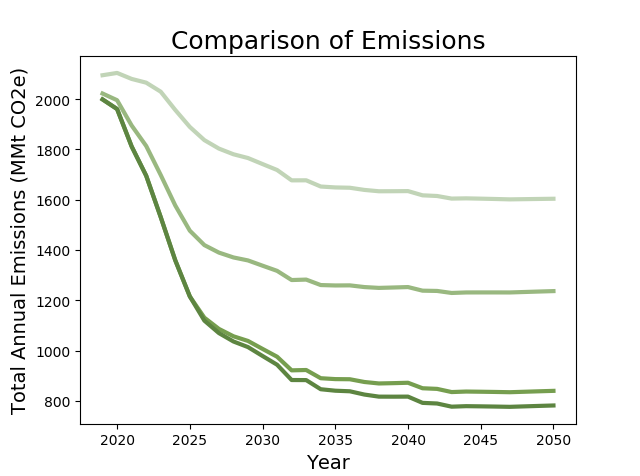
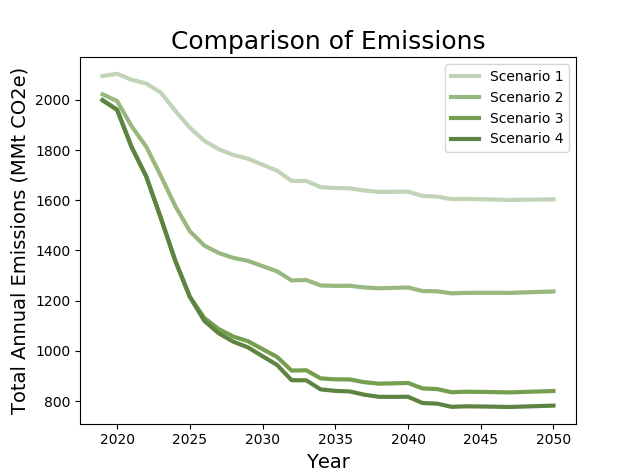
final graphs

diff --git a/proper_graphs.py b/proper_graphs.py
@@ -11,7 +11,7 @@ em3 = pd.read_excel('Graph Data/TEP - Graphs III.xlsx', sheet_name = 'ALL PLOTS'
 eg4 = pd.read_excel('Graph Data/TEP - Graphs III.xlsx', sheet_name = 'ALL PLOTS', skiprows = 359, nrows = 15, usecols = 'H:AM')
 em4 = pd.read_excel('Graph Data/TEP - Graphs III.xlsx', sheet_name = 'ALL PLOTS', skiprows = 379, nrows = 15, usecols = 'H:AM')
 em_total = pd.read_excel('Graph Data/TEP - Graphs III.xlsx', sheet_name = 'ALL PLOTS', skiprows = 408, nrows = 15, usecols = 'H:AM')
-eg_total = pd.read_excel('Graph Data/TEP - Graphs III.xlsx', sheet_name = 'ALL PLOTS', skiprows = 416, nrows = 15, usecols = 'H:AM')
+cap_total = pd.read_excel('Graph Data/TEP - Graphs III.xlsx', sheet_name = 'ALL PLOTS', skiprows = 416, nrows = 15, usecols = 'H:AM')
 
 def eg_divide1(ds):
 	coal = ds.loc[0].to_numpy().reshape(-1)
@@ -63,6 +63,7 @@ def total_plot(ds, col, ylabel, title):
 	plt.xlabel('Year', fontsize = 14)
 	plt.ylabel(ylabel, fontsize = 14)
 	plt.title(title, fontsize = 18)
+	plt.legend(['Scenario 1', 'Scenario 2', 'Scenario 3', 'Scenario 4'])
 	plt.show()
 
 def eg_plot1(ds):
@@ -81,6 +82,7 @@ def eg_plot1(ds):
 		'Wind - Offshore', 'Nuclear', 'Geothermal', 'Biomass', 'Hydroelectric', 'Others'], loc='center left', bbox_to_anchor=(1, 0.5),
           fancybox=True, fontsize = 16)
 	plt.tick_params(labelsize = 18)
+	plt.tight_layout()
 	plt.show()
 
 def eg_plot(ds, title):
@@ -99,6 +101,7 @@ def eg_plot(ds, title):
 		'Wind - Offshore', 'Nuclear', 'Geothermal', 'Biomass', 'Hydroelectric', 'Others'], loc='center left', bbox_to_anchor=(1, 0.5),
           fancybox=True, fontsize = 16)
 	plt.tick_params(labelsize = 18)
+	plt.tight_layout()
 	plt.show()
 
 def em_plot1(ds, hist):
@@ -123,6 +126,7 @@ def em_plot1(ds, hist):
 		plt.legend(['Coal', 'Coal with CCS', 'Gas - CT', 'Gas - CC', 'Solar - PV', 'Solar - CSP', 'Wind - Onshore',\
 		'Wind - Offshore', 'Nuclear', 'Geothermal', 'Biomass', 'Hydroelectric', 'Others'], loc='center left', bbox_to_anchor=(1, 0.5),
           fancybox=True, fontsize = 16)
+	plt.tight_layout()
 	plt.show()
 
 def em_plot(ds, title, hist):
@@ -147,17 +151,20 @@ def em_plot(ds, title, hist):
 		plt.legend(['Coal', 'Coal with CCS', 'Gas - CT', 'Gas - CC', 'Gas - CC with CCS', 'Solar - PV', 'Solar - CSP', 'Wind - Onshore',\
 		'Wind - Offshore', 'Nuclear', 'Geothermal', 'Biomass', 'Hydroelectric', 'Others'], loc='center left', bbox_to_anchor=(1, 0.5),
           fancybox=True, fontsize = 16)
+	plt.tight_layout()
 	plt.show()
 
 '''
 eg_plot1(eg1)
 eg_plot(eg2, 'Electricity Generation - Scenario 2')
 eg_plot(eg3, 'Electricity Generation - Scenario 3')
-eg_plot(eg4, 'Electricity Generation - Scenario 4')
+eg_plot(eg4, 'Electricity Generation - Scenario 4')'''
+
+
 em_plot1(em1, hist = False)
 em_plot(em2, 'Total Emissions - Scenario 2', hist = False)
 em_plot(em3, 'Total Emissions - Scenario 3', hist = False)
 em_plot(em4, 'Total Emissions - Scenario 4', hist = False)
-'''
+
 #total_plot(em_total, ['#c1d4b7', '#99b880', '#769e4f','#5d8541'], 'Total Annual Emissions (MMt CO2e)', 'Comparison of Emissions')
-total_plot(eg_total, ['#c1d4b7', '#99b880', '#769e4f','#5d8541'], 'Total Annual Emissions (MMt CO2e)', 'Comparison of Emissions')
+#total_plot(cap_total, ['#f8d18e', '#f6c042', '#daaa3a','#ba902f'], 'Cumulative Capital Investment (Million USD)', 'Comparison of CapEx')
